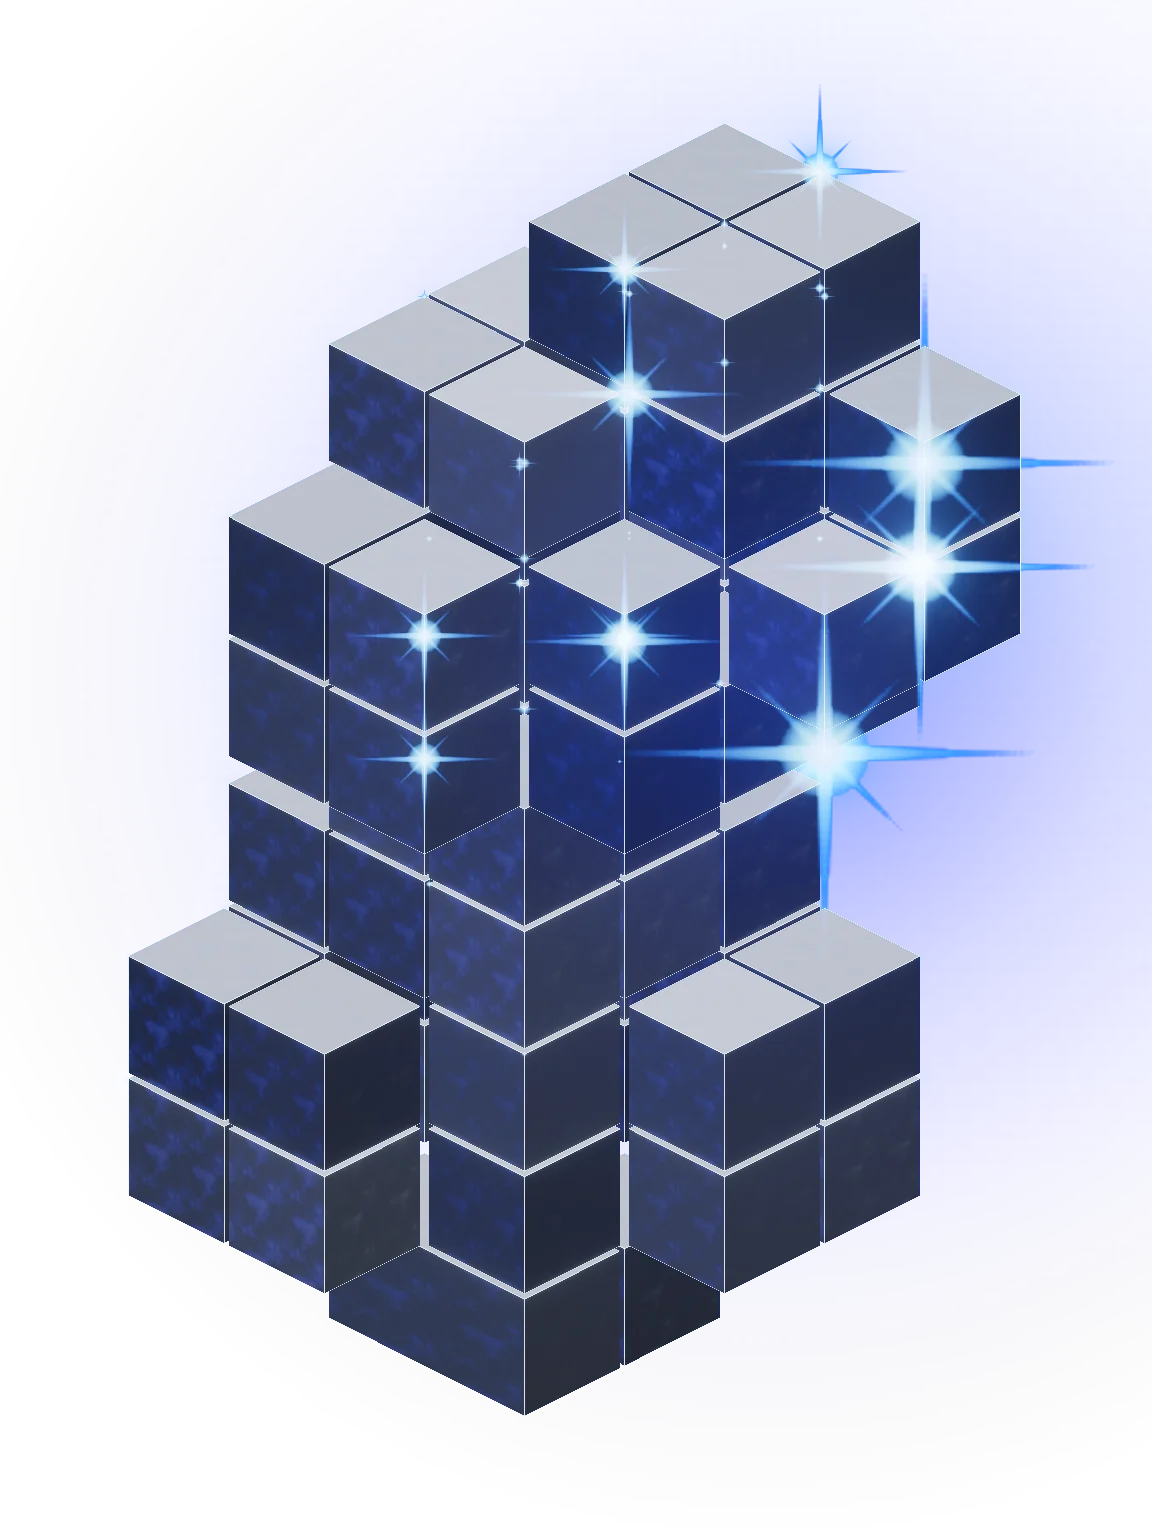
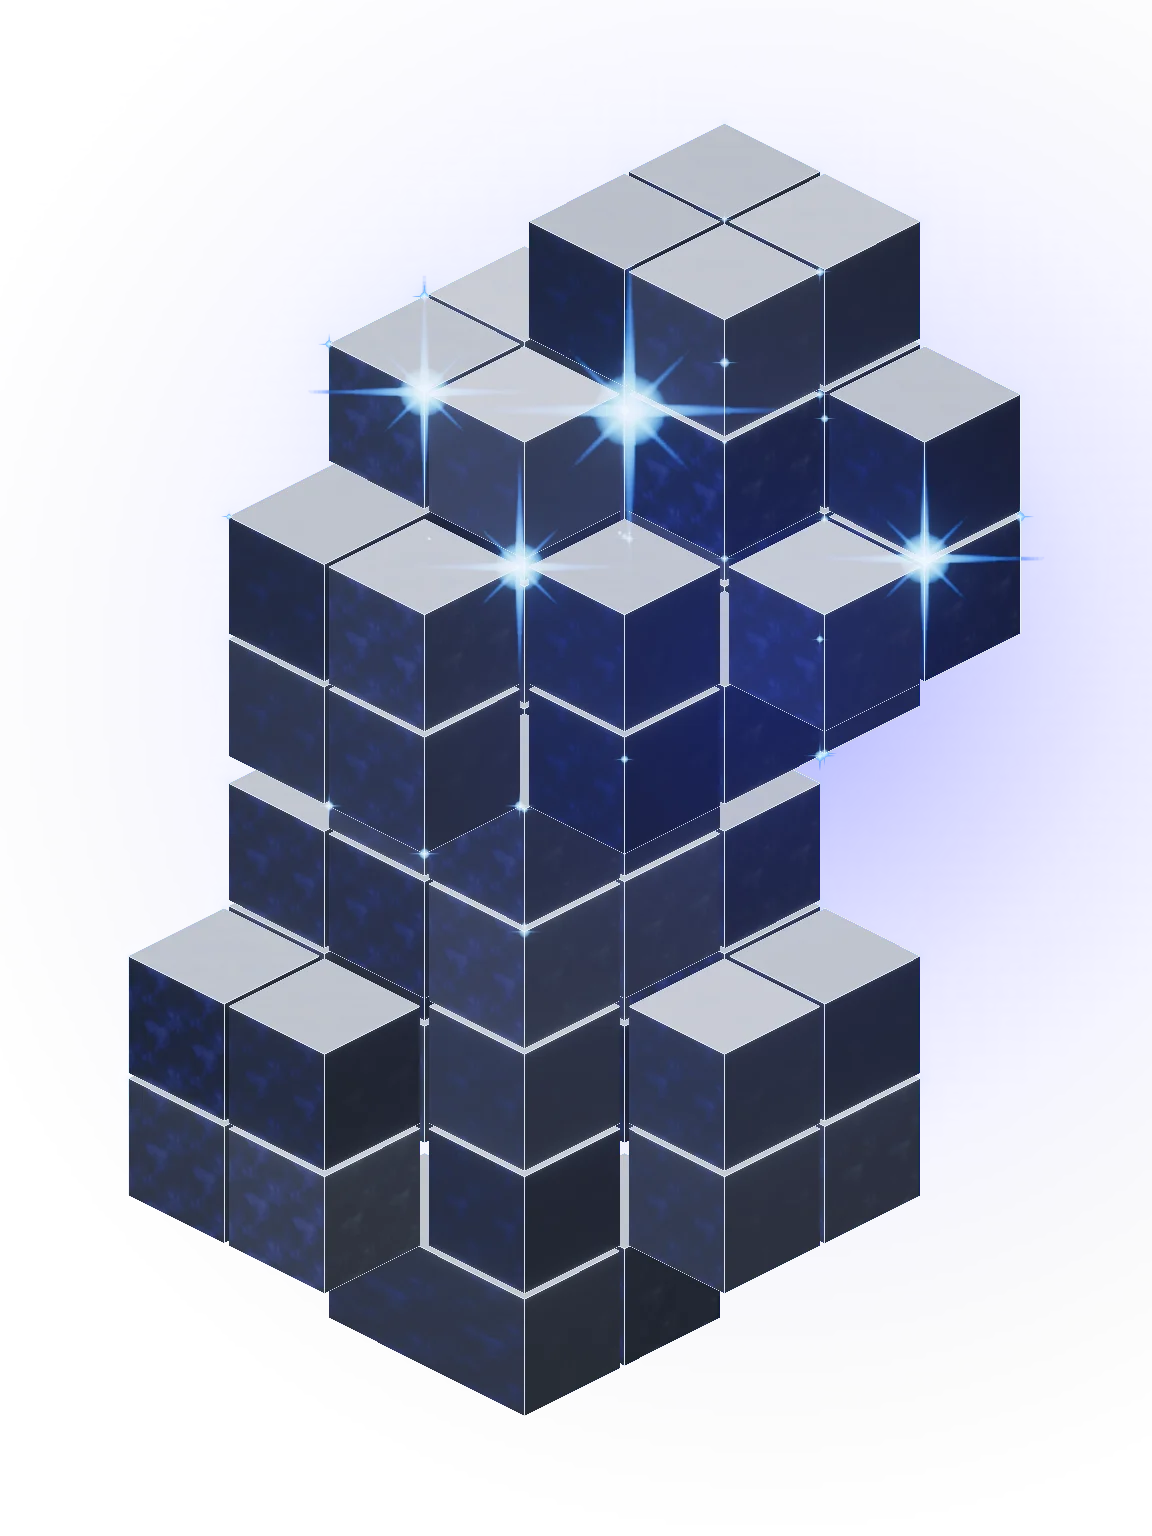
feat: лесенка деградации, фолбэк при потере WebGL, тач-ветка, новый постер
Лесенка (в rAF-цикле сцены): медиана 60 межкадровых интервалов, первые 2с
прогрева игнорируются; если медиана держится выше 22 мс — один шаг вниз, не
чаще раза в 3с, только вниз:
  DPR 2 → 1.5 → 1 (+FXAA взамен суперсэмплинга)
  → bloom levels 8 → 4
  → bloom выключен, вместо него запечённый ореол на спрайтах-бликах
    (сцена не становится плоской; ореолы создаются лениво, на здоровых
    устройствах не стоят ни памяти, ни времени)
  → постер: кроссфейд обратно, rAF остановлен.
Шаги, которые ничего не изменят, пропускаются (например «DPR → 1.5», когда
пол DPR уже 1.5). После каждого шага проверяем, помогло ли: если медиана не
улучшилась, узкое место не в отрисовке (дисплей 30 Гц, тротлинг вкладки) —
лесенка останавливается и до постера НЕ доводит. Каждый шаг в console.debug.

Потеря контекста WebGL: слушаем webglcontextlost на канвасе, возвращаем
постер и освобождаем ресурсы. preventDefault намеренно не зовём — браузер
не пытается восстановить контекст, а на contextrestored сцену не оживляем:
постер надёжнее и не стоит ни байта.

Тач: ?cubestouch=1 включает ветку coarse-pointer на десктопе — иначе её
нечем проверить в headless-прогоне. Проверено: дрейф наклона идёт с
периодом 12с и амплитудой ±1.93° по Y / ±0.97° по X (спека ±2°/±1°, разница
— задержка сглаживания), точка репульсии при зажатом указателе строго
нулевая (слежения нет), тап даёт волну (36 блоков, 0.25 клетки).

Постер перегенерирован из финальной сцены: 1152×1536, прозрачный WebP q86,
[…]

diff --git a/src/components/hero/HeroCubes.tsx b/src/components/hero/HeroCubes.tsx
@@ -87,6 +87,22 @@ export default function HeroCubes({
     };
     applyPauseRef.current = applyPause;
 
+    /**
+     * Возврат к постеру — общий финал для потери WebGL-контекста и для исчерпанной
+     * лесенки деградации. Сначала кроссфейд (ready=false), и только после его
+     * окончания dispose: если освободить ресурсы сразу, канвас погаснет рывком
+     * посреди перехода. Повторные вызовы безвредны — сцену чистим один раз.
+     */
+    const fallbackToPoster = () => {
+      if (cancelled || !sceneRef.current) return;
+      setReady(false);
+      interactRef.current?.dispose();
+      interactRef.current = null;
+      const dying = sceneRef.current;
+      sceneRef.current = null;
+      setTimeout(() => dying.dispose(), 800); // 700мс кроссфейд + запас
+    };
+
     const create = async () => {
       if (sceneRef.current || creating || cancelled) return;
       creating = true;
@@ -105,6 +121,8 @@ export default function HeroCubes({
           onReady: () => {
             if (!cancelled) setReady(true);
           },
+          onContextLost: () => fallbackToPoster(),
+          onExhausted: () => fallbackToPoster(),
         });
         if (!handle) return; // нет WebGL → остаётся постер
         if (cancelled) {

diff --git a/src/components/hero/cubeInteractions.ts b/src/components/hero/cubeInteractions.ts
@@ -145,7 +145,12 @@ export function attachInteractions(
   const rng = mulberry32(0x5eed2026);
 
   // --- состояние ------------------------------------------------------------
-  const coarse = window.matchMedia('(hover: none)').matches; // тач → дрейф вместо слежения
+  // Тач → автодрейф вместо слежения за курсором. ?cubestouch=1 включает ту же
+  // ветку на десктопе: иначе тач-поведение нечем проверить в headless-прогоне
+  // (matchMedia там всегда hover:hover). На боевом трафике флага нет, поведение
+  // определяет только медиазапрос.
+  const coarse =
+    window.matchMedia('(hover: none)').matches || location.search.includes('cubestouch');
   let enabled = true; // debug: полное отключение (проверка бесшовности лупа)
   let active = true; // кнопка паузы
   let drift = coarse; // автодрейф наклона
